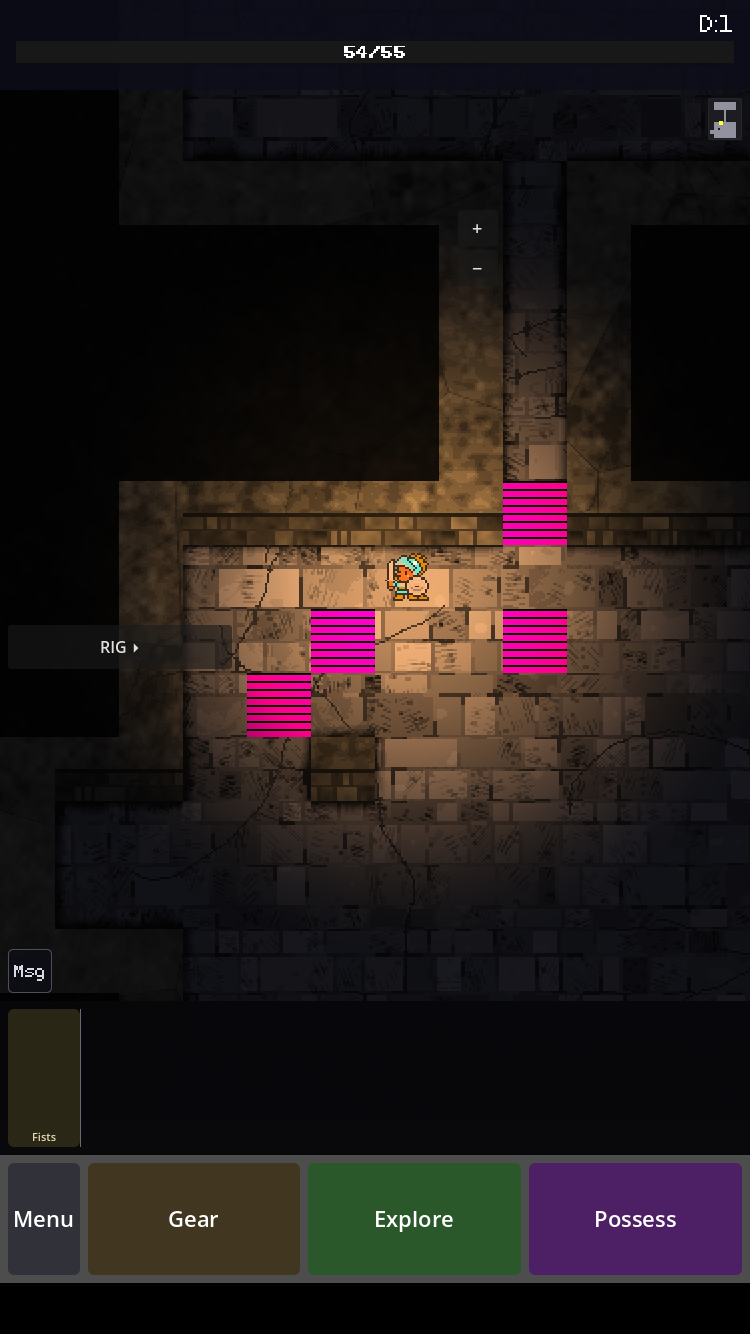
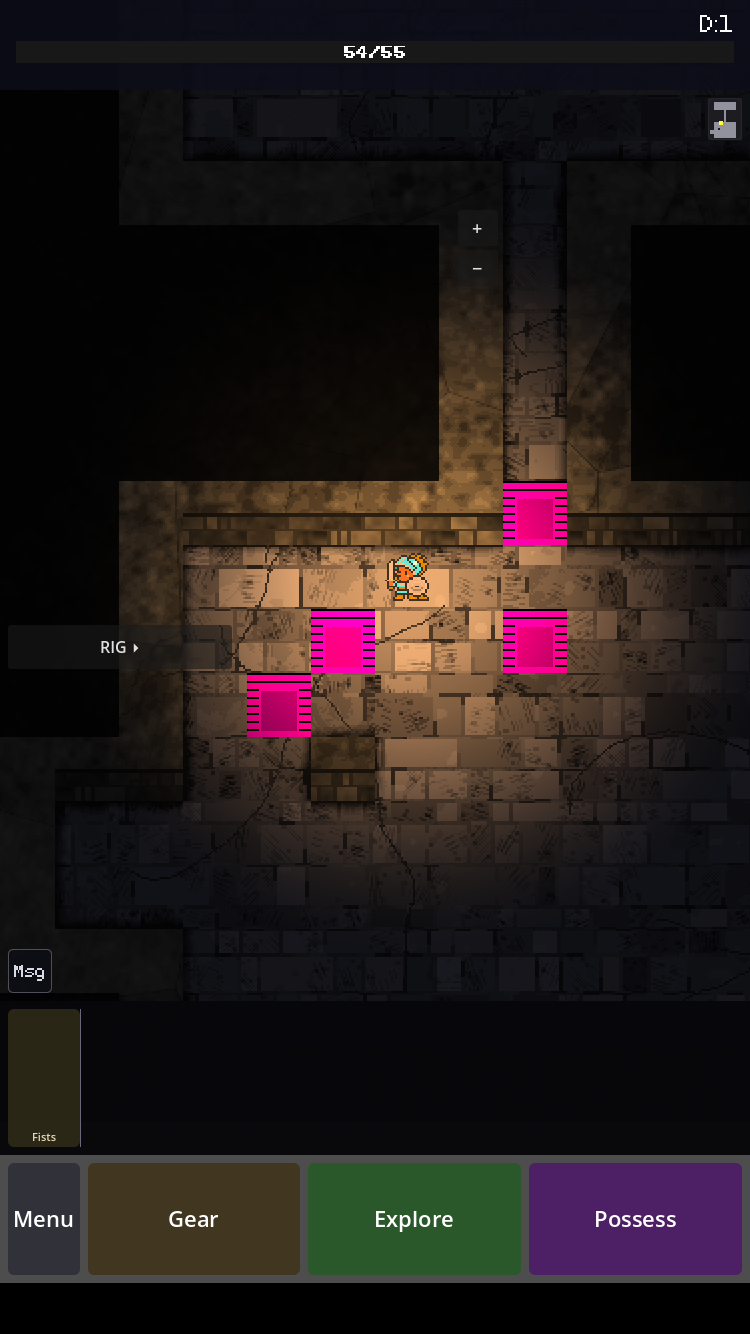
art(props): sprite path PROVED with a screaming stub — the first proof was wrong
CORRECTION FIRST. The earlier substrate check measured "pixels changed at the prop's
cell" and read it as "the sprite drew". It did not. GetTexturePath is pure pattern
substitution — tier1_ashlar_{id}.png — so the Oryx ids probed with resolved to files
that do not exist, GD.Load returned null, and no prop sprite was ever created. The
12,464 pixels that moved were the FLOOR: MarkPropCell makes a prop's cell fall back to
plain floor rather than worn or accent (PR #103), so marking a cell repaints it whether
or not anything stands there. A proxy that agreed with the hypothesis for the wrong
reason — the third instance today, after the mid-cell reference and the black frame.

Re-proved with a tile that can load: a magenta stub at the props family's own id block
(9800), magenta on purpose per LOOP-PROCESS 4.2 — a missed painter must come back
screaming rather than plausible. 904-908 magenta pixels at every one of the four
declared cells, which no amount of floor repainting can fake.

Authoring size falls out of the same probe: a prop is scaled to fill its 64px cell, so
props are authored at 32x32 native like every other family.

Also carried: docs/SASHA-IDENTITY-CARD.md, DRAFT with five questions marked RAFE TO
RULE. Context for later sessions, not work for this one.

Claude-Session: https://claude.ai/code/session_0148ARXdZUtNcxcQ8w8QmAjt

diff --git a/docs/SASHA-IDENTITY-CARD.md b/docs/SASHA-IDENTITY-CARD.md
@@ -1,0 +1,83 @@
+# SASHA — IDENTITY CARD (draft, design thread 2026-09-09)
+
+*Design locks before prompts. This card is settled in conversation, then the Sasha session
+fires against it. Rafe's brief, verbatim: "a competent swashbuckler type, a self-assured
+hero who looks like he can handle himself, but not in an aggressive way — just in the
+understated way that he holds himself, that he moves, the tilt of his head, the well-worn,
+non-ostentatious armour and weapons; useful and used, not showy."*
+
+## The one thing his silhouette says
+**He can handle himself, and he doesn't need you to know it.** Competence read through
+stillness — the same law as the orcs' heraldic stance (§7.4) for the opposite reason:
+theirs is stillness-as-menace; his is stillness-as-readiness.
+
+## Body (from the story bible, §1)
+- Forty-two, **small**, dark-haired, **dark-skinned** (Revenese, south-coast, sun-cured).
+  Not bulky — the opposite of the orcs' Warcraft-skeleton mass. A professional's economy:
+  compact, nothing wasted. He reads *smaller* than the things he's walking past, and more
+  capable than his size.
+- **The knee.** Six years old, never quite forgave a job. At 32px this is not drawn — it is
+  *stood*: weight settled slightly off one leg. It's the asymmetry that makes the stance
+  his instead of a template's. (Frame budget permitting; see §9 below.)
+- **The tilt of the head** — Rafe's words, and the whole expression budget. See Expression.
+
+## Posture and movement
+- Idle: weight planted, shoulders down, head slightly tilted — *attention*, not menace. A
+  man noticing the wet boot before the danger (story bible: "he lives in texture").
+- Walk: unhurried, economical. Not a stride, not a creep. Someone who's walked into worse
+  rooms.
+- Attack: one motion, no wind-up theatre. The work, not a fight (he never says "combat").
+- Hit: absorbs, doesn't flail.
+
+## Gear — useful and used, never showy (§7, §8 applied to a person)
+- **Armour:** worn leather/cloth, no plate, no ornament. Wear where wear happens: shoulders,
+  forearms, the knee. Nothing decorative, nothing new.
+- **Weapon:** [RAFE TO RULE — see questions] — well-worn grip, no jewel, no glow.
+- **The wand — Hollowmark.** Brass, at his hip, *always present in every frame.* She is a
+  character and she is on screen 100% of the time. She is also the natural home of the
+  **warmth channel** (below) and possibly the game's single saturated accent.
+- Pack/kit: minimal, professional. He carries what the work needs.
+
+## Warmth channel (§5.4 chroma-is-signal; Sasha + Hollowmark are the warmest thing on
+## screen, always — bible §1/§5)
+- Warmth lives in **skin** (Revenese, warm-toned) and **brass** (the wand). Everything
+  else on him is desaturated toward the spine. Against the Boundary's fires — the only
+  other warm thing — he must still read as the *warmest*, not the brightest (#183 lesson:
+  lit, not blown). Authored *with* the orc fire, not before it.
+- **Hero light response** (#183, re-derived): peak above the lit floor beside him, below
+  the shoulder's knee. The light-bearer is lit.
+
+## Expression
+- The world has a zero expression budget (§1.1). Sasha is the one exception candidate — and
+  at 32px his "expression" *is* the head tilt and the stance. Ruling proposal: **his
+  expression budget is spent on posture, never on a drawn face.** No readable mouth or
+  eyes doing acting; the tilt does the work. (Face detail is a palette/identifiability
+  question at 1×, not an emotion channel.)
+
+## Anti-tells — what he must never look like
+- No hero glow, rim light, or aura. No cape flourish. No oversized weapon. No chosen-one
+  silhouette. No "adventurer" cheer (Oryx anti-reference, §1.3). No aggression in the
+  idle — no ready-stance, no bared weapon at rest.
+- The swashbuckler without the swash: if a frame looks like a poster, it's wrong.
+
+## Rig — one-way door (§9, §10)
+- **Attachment points, from frame one:** weapon hand, off hand, hip (the wand — fixed),
+  back (pack), head (hood/hat if any). Equipment layered by silhouette class.
+- **Frame budget (§9.1): idle 2, walk 2, attack 1–2, hit 1 — six to eight. That is the
+  set; additions displace.** The idle pair is where the tilt and the weight-shift live.
+- Facing: [RAFE TO RULE — 4-direction or fewer; portrait top-down].
+
+## Sequencing
+Room (done) → props incl. the orc fire (firing) → palette lock (§5.1) → orc as pipeline
+rehearsal (skeleton/rotation/attachment tools proven on a body nobody's attached to) →
+**Sasha**.
+
+## Questions for Rafe (rule these and the card locks)
+1. **Weapon:** sword (swashbuckler-literal), or knife/short blade (the story's "specialist"
+   — a killer's tool, not a duelist's)? This decides the whole silhouette's second line.
+2. **Head:** bare, hooded, or a worn hat? Hood reads "hides"; bare reads "doesn't need to."
+3. **Expression ruling:** confirm posture-only (no drawn facial acting), or keep a small
+   face budget?
+4. **Facings:** four directions, or two (mirrored) — the cheaper rig is also the more
+   heraldic one.
+5. **The knee:** worth a frame's worth of stance asymmetry, or too subtle at 32px to spend on?

diff --git a/RUN-REPORT.md b/RUN-REPORT.md
@@ -669,3 +669,68 @@ the frame's own numbers before the third attempt rather than trusting exit 0.
 `ABORT: carved geometry contains no junction` to stderr while blocking nothing. It sat at the top
 of both failure logs looking like the cause and was not. Same shape as the `git grep` exit-128
 fault earlier in this run: **a check whose noise is indistinguishable from its finding.**
+
+---
+
+## Item 11 — §3 ratified, the reference re-seeded, and the props pass opened
+
+**§3 is law.** Heading and status rewritten, dated, the walk quoted, the ruled condition marked
+discharged. The status trail is kept in full — it is the record of a clause nearly struck twice
+that was right both times, and the Q3 control is why it survived to be ratified rather than
+abandoned. One boundary recorded with it: **ratification settles the projection, not how well a
+family serves it.** The same walk routed two wall items, and those are debt against a ratified
+grammar rather than evidence against it.
+
+**`approved_capture` re-seeded** to the walked frame `42f6941b`, superseding 2026-09-07's. Both
+halves of the ruling are written into the file as the authority: *Rafe-walked* is what makes it a
+reference at all (a bar that re-seeds itself ratchets), *above the previous reference* is what
+makes replacing the old one honest. The superseded frame is kept and named.
+
+**#202 — the top-to-face turn.** Measured: cap ~79, a 4px occlusion lip at ~29, face ~61. Down 50
+levels and back up 32 with nothing between. The turn is drawn by occlusion, which §6.3 requires,
+but as a hard cut, and two lit planes split by a black rule read as two objects.
+
+**#203 — the vertical, and the conditional did not fire.** §8.3.3 constrains the *horizontal*
+axis; head joints are deliberately free and measurably are — x mod 64 scattered in both courses
+(`[6,31,55,12,50]` and `[24,9,23,46,59]`), cross-course profile correlation **r = +0.276**,
+autocorrelation at tile pitch **−0.002** in course 1. The percept is **two seams with different
+causes**: x 435–438 scores 0.98 with the void ring on and **0.19 with it off** — §12.1a's
+classification edge, which an earlier seat named as *"two perfectly straight vertical seams in the
+darkness"* — while x 503–506 is 1.00 either way and is #201's junction. No variant offset is owed.
+
+**9022b179 stamps clean.** The handset was unlocked and its first launch recorded
+`commit=9022b17902fb…` with no `+dirty`, `review=GATED`, booted into the review scene.
+
+### The props pass opened — substrate first, and the first proof of it was wrong
+
+The wall lane's r003 asked for standing objects and was routed here for one reason: *"the review
+scene has no prop system at all."* Ninety generations against a scene that cannot seat what they
+produce is ninety wasted, so the seat was built before the art. `CorridorReviewSceneBuilder` takes
+the **same props vocabulary its sibling has parsed since the candidate rounds** — nothing invented
+where something proven exists — absent by default, so every floor and wall scene parses and
+captures identically and their reference frames stay comparable. `tier1_props_review.json` is a
+**new** spec with the combined scene's geometry copied verbatim, because adding props to the scene
+`approved_capture` was walked on would break the comparison that gates installs.
+
+⚠ **THE FIRST SUBSTRATE PROOF WAS WRONG AND IS CORRECTED HERE.** It measured *pixels changed at
+the prop's cell* and read that as *the sprite drew*. It did not: `GetTexturePath` is pure pattern
+substitution — `tier1_ashlar_{id}.png` — so the Oryx ids I probed with resolved to files that do
+not exist, `GD.Load` returned null, and no prop sprite was ever created. What moved those 12,464
+pixels was the **floor**: `MarkPropCell` makes a prop's cell fall back to plain floor instead of
+worn or accent (PR #103), so marking a cell repaints it whether or not anything stands there.
+**A proxy that agrees with the hypothesis for the wrong reason** — the third instance today, after
+the mid-cell reference and the black-frame capture.
+
+Re-proved with a tile that can actually load: a **screaming magenta stub** at the props family's
+own id (9800), because §4.2 says a missed painter must come back screaming rather than plausible.
+Magenta at the cell cannot be faked by any amount of floor repainting:
+
+| prop cell | magenta px | |
+|---|---|---|
+| (5,13) | 908 | DREW |
+| (8,13) | 908 | DREW |
+| (4,14) | 904 | DREW |
+| (8,11) | 908 | DREW |
+
+**Sprite path proved.** Authoring size falls out of the same probe: a prop is scaled to fill its
+64px cell, so props are authored at **32×32 native** like every other family.
